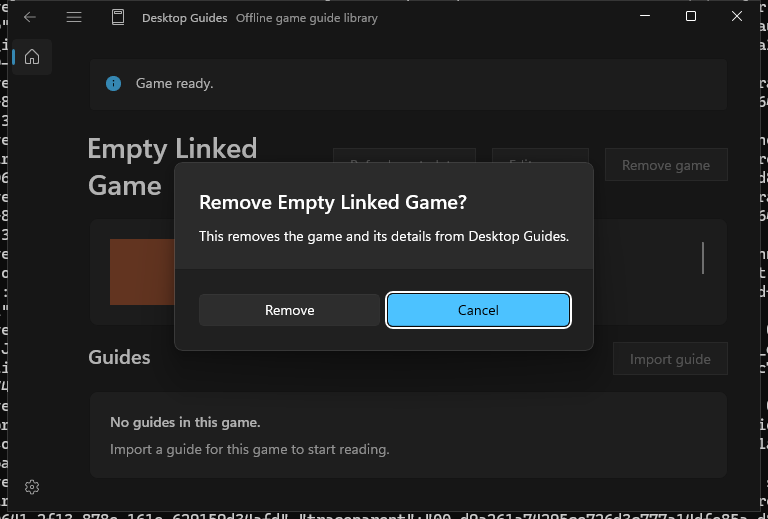
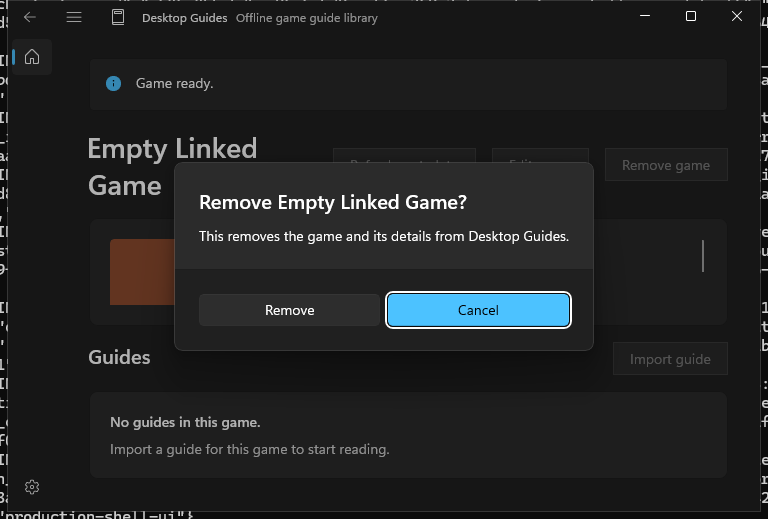
docs(p1): point the T04.2 record at CI run 36827722176
- Update the run ID in the design doc, implementation plan and progress table
- Refresh the Remove game hint and confirmation screenshots from that run

diff --git a/docs/progress.md b/docs/progress.md
@@ -21,7 +21,7 @@ the [work breakdown](work-breakdown.md).
 | P1 T15.3 guide deletion | Merged through [PR #22](https://github.com/ilya-slalom/desktop-guides/pull/22) on 30 September 2026, merge commit `1d36a26`. | A guide can be removed from its game after a confirmation naming it and its managed-file count. Removal deletes its metadata, reading state, preferences and managed files; every failure leaves the guide intact or a journaled trash entry that startup finishes. CI run [36688055406](https://github.com/ilya-slalom/desktop-guides/actions/runs/36688055406) passed the installed removal group; see the [verification record](p1/t15-3-guide-deletion-design.md#t153-verification-record). |
 | P1 T05.1 Library and Game rows | Merged through [PR #23](https://github.com/ilya-slalom/desktop-guides/pull/23) on 30 September 2026, merge commit `d94df92`. | The Library lists games and the Game page lists guides by last activity, newest first. Each row shows a facts line: platform, source and guide count for a game; format, reading state and last opened for a guide, with `Not started` for an unread guide. Both lists stay virtualized and read only SQLite. CI run [36705946660](https://github.com/ilya-slalom/desktop-guides/actions/runs/36705946660) passed `catalog-facts`; see the [verification record](p1/t05-1-guide-rows-design.md#t051-verification-record). |
 | P1 T05.2 Library search | Merged through [PR #24](https://github.com/ilya-slalom/desktop-guides/pull/24) on 1 October 2026, merge commit `b774fd4`. | The Library search box filters games by their own or their guides' titles, ignoring case, accents and width, and names the matching guide. Loading, empty-library and no-results views are distinct, with a visible Clear search. Search reads only loaded metadata. CI run [36726600007](https://github.com/ilya-slalom/desktop-guides/actions/runs/36726600007) passed `library-search`; see the [verification record](p1/t05-2-library-search-design.md#t052-verification-record). |
-| P1 T04.2 game actions | Implemented on `feat/p1-t04-2-game-actions`; PR open. | Renaming a game keeps its ID, provider link, artwork, guides, reading state, Resume and selection, after a refresh and a restart. Remove game removes a game without guides after a confirmation; for a game with guides it is disabled with a visible hint. CI run [36818691348](https://github.com/ilya-slalom/desktop-guides/actions/runs/36818691348) passed `game-actions`; see the [verification record](p1/t04-2-game-actions-design.md#t042-verification-record). |
+| P1 T04.2 game actions | Implemented on `feat/p1-t04-2-game-actions`; PR open. | Renaming a game keeps its ID, provider link, artwork, guides, reading state, Resume and selection, after a refresh and a restart. Remove game removes a game without guides after a confirmation; for a game with guides it is disabled with a visible hint. CI run [36827722176](https://github.com/ilya-slalom/desktop-guides/actions/runs/36827722176) passed `game-actions`; see the [verification record](p1/t04-2-game-actions-design.md#t042-verification-record). |
 | P1 first usable release | M1 and M2 in progress; M3–M6 not started. | [P1 technical design](p1-technical-design.md) and [dependency plan](p1/implementation-plan.md) cover 16 stories and 54 tasks: S03–S17 plus S20. T11.4 now establishes the design language and starts stable Toolkit adoption with `SettingsCard`; mapped later tasks add `MetadataControl`, `HeaderedContentControl`, `Segmented`, `GridSplitter`, and conditional `RichSuggestBox` when their workflows exist. The [installed E2E procedure](p1/e2e-testing.md) uses an interactive scheduled task for the signed MSIX and UI workflows. S20 manual export/restore is in P1 because an uninstall removes package local data. |
 
 The remaining M1 task is T17.1 in the [P1 plan](p1/implementation-plan.md).

diff --git a/docs/p1/t04-2-game-actions-design.md b/docs/p1/t04-2-game-actions-design.md
@@ -1,7 +1,7 @@
 # T04.2 Game rename and remove actions design
 
 Status: implemented on `feat/p1-t04-2-game-actions`; verified by CI run
-[36818691348](https://github.com/ilya-slalom/desktop-guides/actions/runs/36818691348). Prerequisites T04.1 (PR #11), T04.4 (PR #14), T05.4 (PR #16) and
+[36827722176](https://github.com/ilya-slalom/desktop-guides/actions/runs/36827722176). Prerequisites T04.1 (PR #11), T04.4 (PR #14), T05.4 (PR #16) and
 T11.1 (PR #6) are merged.
 
 ## Intent
@@ -286,7 +286,7 @@ the Game page with the hint and the removal dialog, in light and dark.
     state intact, `NotFound`, `Guid.Empty`, other games untouched, the
     artwork file and folder deleted, a locked artwork file swept at the
     next start, and a publication into a removed game leaving nothing.
-- **Installed.** CI run [36818691348](https://github.com/ilya-slalom/desktop-guides/actions/runs/36818691348)
+- **Installed.** CI run [36827722176](https://github.com/ilya-slalom/desktop-guides/actions/runs/36827722176)
   passed `production-shell-ui`:
   - `game-actions`, light and dark: phases `remove-disabled-with-guides`,
     `guide-list-keeps-a-row`, `rename-keeps-selection`,

diff --git a/docs/p1/implementation-plan.md b/docs/p1/implementation-plan.md
@@ -689,7 +689,7 @@ guides; for a game with guides it is disabled, with the visible hint
 `Remove this game's guides first.`. The confirmation defaults to Cancel.
 After a removal the Library is shown with an empty back stack, and the
 artwork is deleted best effort, with the startup sweep removing anything
-left. CI run 36818691348 passed `game-actions` in light and dark and
+left. CI run 36827722176 passed `game-actions` in light and dark and
 `game-actions-persisted`.
 
 ### UI design-language and Gallery adoption sequence
